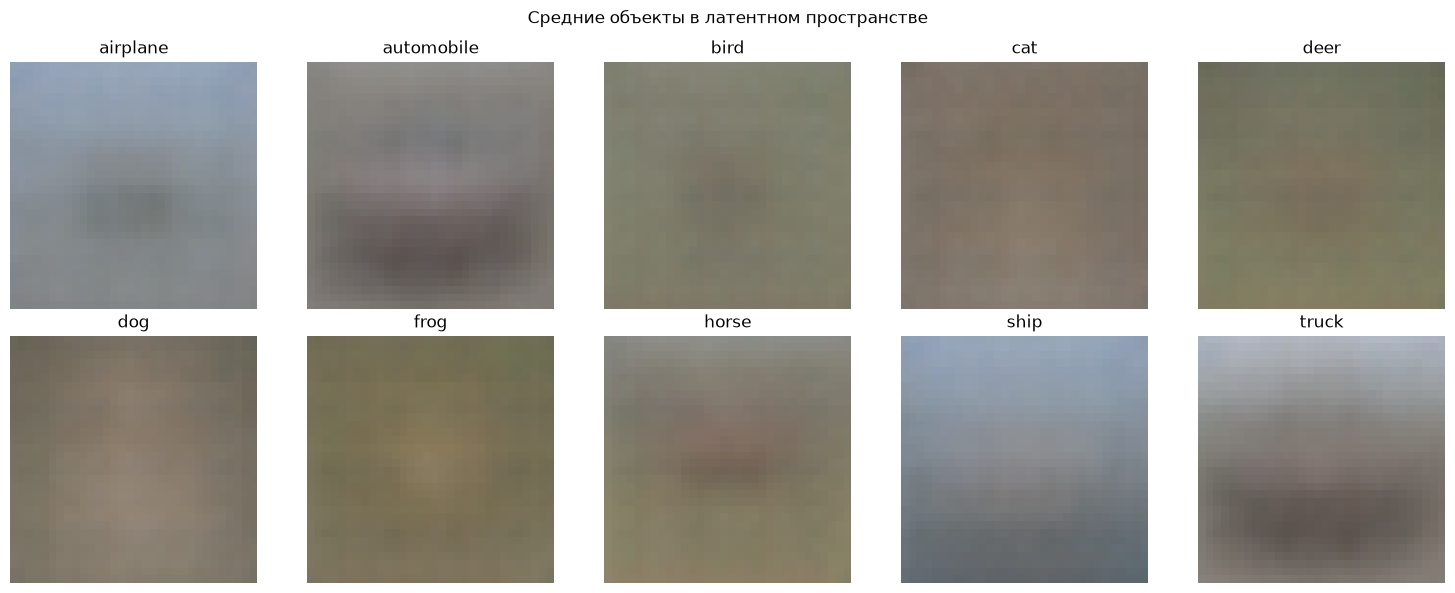
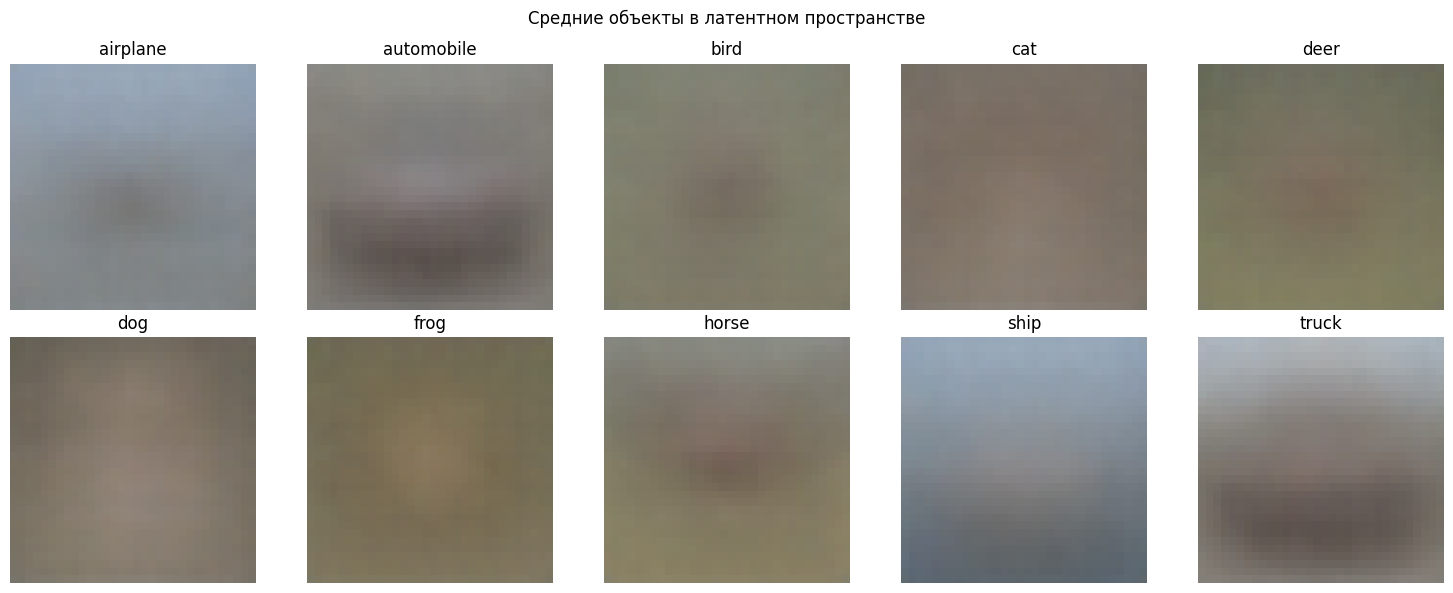
readme results from colab run

diff --git a/README.md b/README.md
@@ -22,14 +22,15 @@
 
 ## Результаты
 
-Прогон на Mac M4 через MPS, 60 эпох VAE и по 25 эпох на каждую CNN:
+Прогон в Colab на T4, 60 эпох VAE и по 25 эпох на каждую CNN:
 
 | Обучающие данные | Точность на реальном тесте |
 | --- | --- |
-| Реальный CIFAR-10 | **84,08 %** |
-| Сгенерированный VAE | **42,33 %** |
+| Реальный CIFAR-10 | **84,13 %** |
+| Сгенерированный VAE | **42,37 %** |
 
-Точность на генерации заметно скачет от эпохи к эпохе, на последних десяти она от 42 до 48 %
+Точность на генерации заметно скачет от эпохи к эпохе, на последних десяти она от 42 до 46 %.
+
 "Средние" объекты классов. У машины, грузовика, самолёта и корабля угадываются силуэт и фон, у животных осталось цветовое пятно.
 
 ![Средние объекты классов](images/class_means.png)
